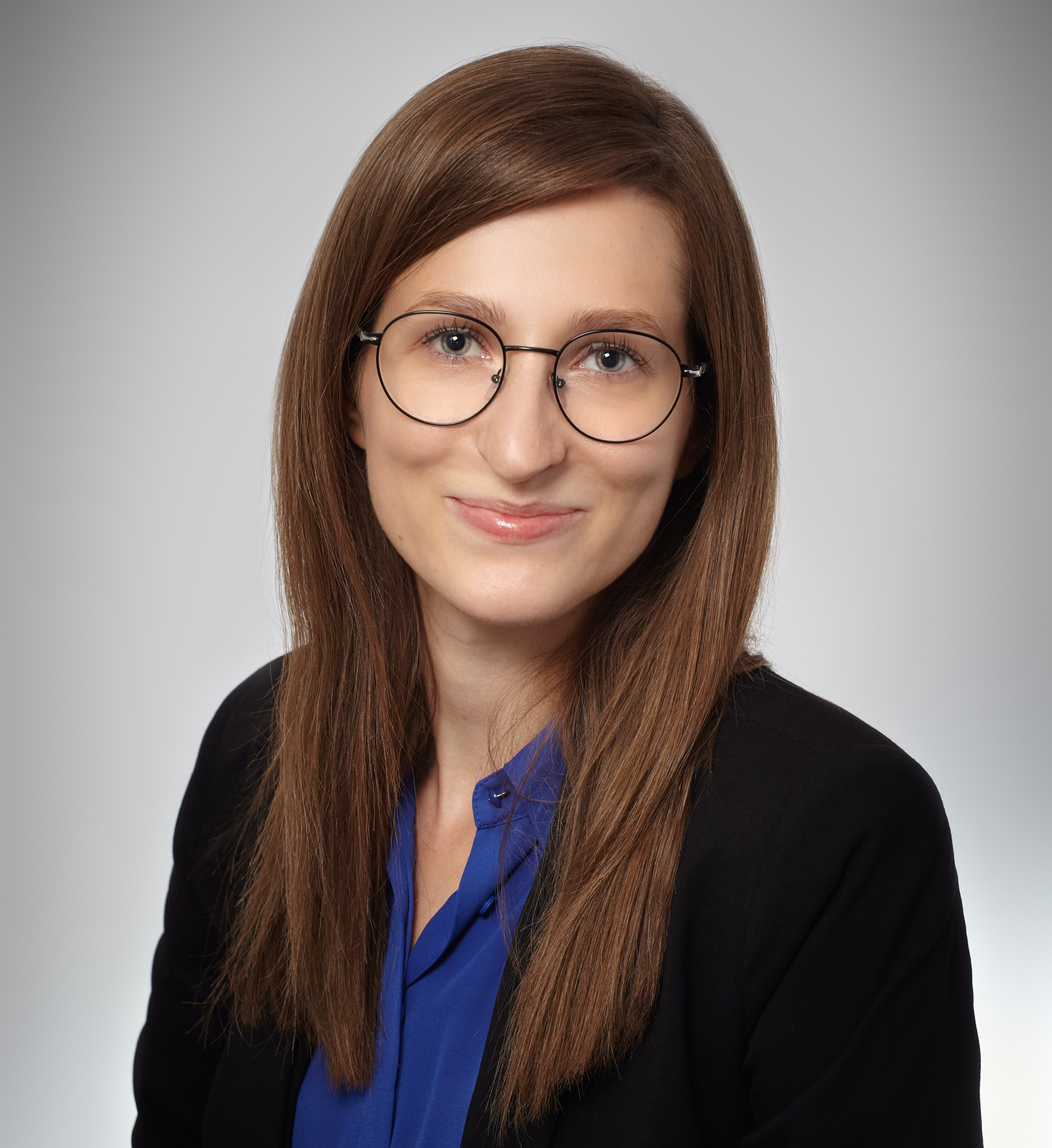
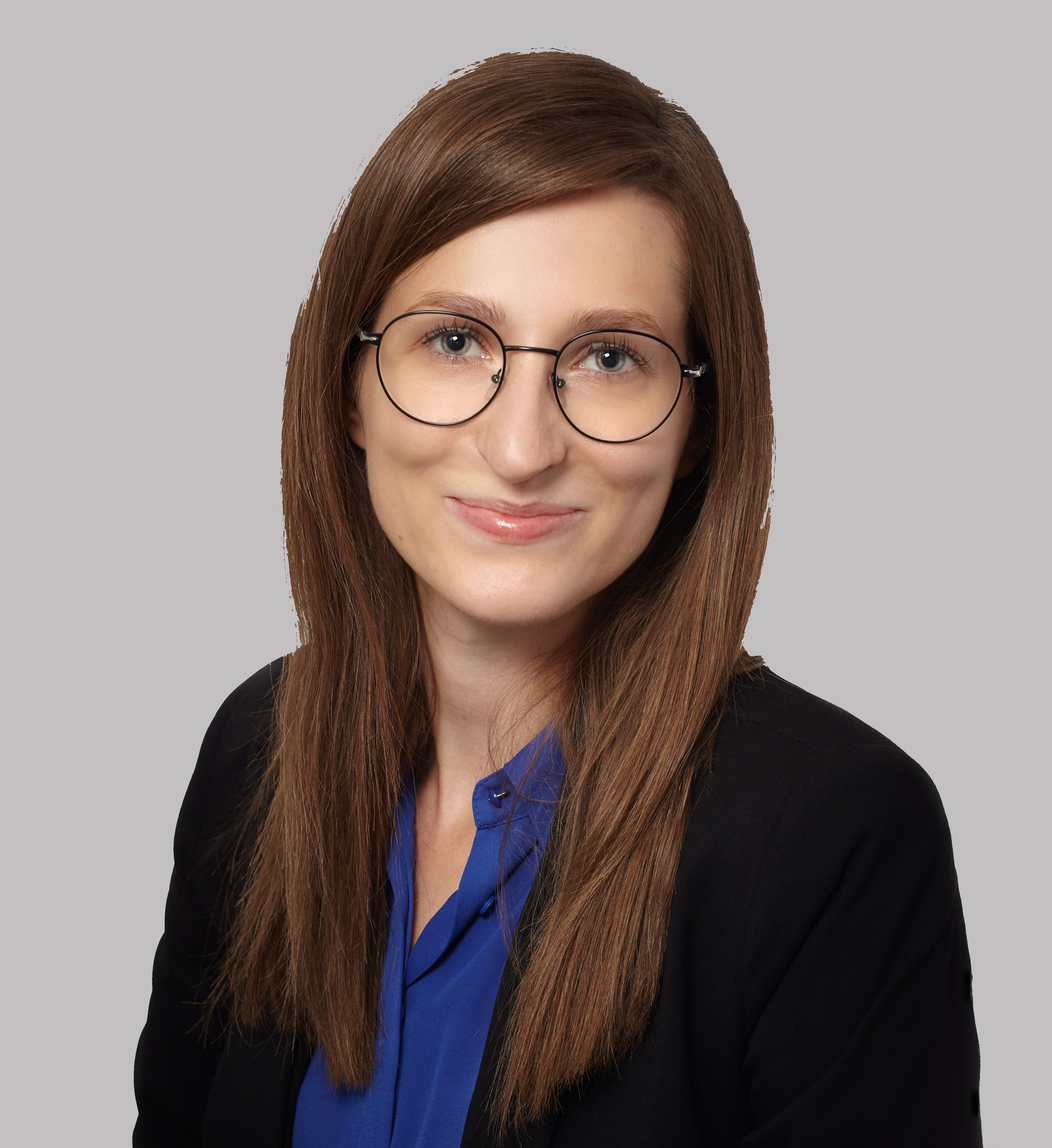
style change

diff --git a/css/main.css b/css/main.css
@@ -4,34 +4,145 @@
    padding: 0;
 }
 
+html {
+   height: 100%;
+}
+
 body {
-   background-color: #C1Bebd;
-   background-image: linear-gradient(315deg, #716c6a 0%, #C1Bebd 74%);
+   background-color: #808080;
+   background-image: linear-gradient(326deg, #808080 0%, #C1Bebd 74%);
    font-family:'Quicksand', sans-serif;
 }
 
-/* HEADER */
+/* NAVIGATION */
 
-header {
-   position: relative;
-   height: 65px;
-   background-color:#716c6a;
-   font-size: 3rem;
-   font-weight:300;
-   color: #d3d2d1;
-}
-
-header p {
+nav {
+   position: sticky;
+   top: 0;
+   height: 60px;
+   line-height: 60px;
+   background-color: rgb(194, 192, 192);
    text-align: center;
-   text-shadow: 1px 1px 3px #a7a3a0;
+   overflow: hidden;
+   z-index: 1;
 }
 
-header span {
-   font-weight: bold;
+.nav-mobile {
+   margin-right: 100%;
+}
+
+.nav-mobile button {
+   padding: 0 30px;
+   line-height: 60px;
+   font-size: 30px;
+   background: none;
+   border: none;
+}
+
+.nav-desktop {
+   display: none;
+}
+
+/* SECTIONS */
+
+/* ABOUT-ME */
+
+#about-me {
+   display: grid;
+   grid-template-columns: 50% 50%;
+   height: 50vh;
+   position: relative;
+   margin-top: -5vh;
+}
+
+.about-me-photo img {
+   grid-column: 1 / span 1;
+   height: 50vh;
+   width: 100%;
+   object-fit: contain;
+   overflow: hidden;
+}
+
+.about-me-text {
+   grid-column: 2 / span 1;
+   padding: 10px;
+   margin: auto;
+}
+
+.about-me-text h2 {
+   color: rgb(11, 127, 204);
+   text-align: justify;
+   font-size: 0.8rem;
+}
+
+.about-me-text p {
+   text-align: justify;
+   font-size: 0.7rem;
+}
+
+@media (min-width: 400px) {
+   .about-me-text h2 {
+      font-size: 0.9rem;
+   }
+
+   .about-me-text p {
+      font-size: 0.8rem;
+   }
+}
+
+@media (min-width: 450px) {
+   .about-me-text h2 {
+      font-size: 1rem;
+   }
+
+   .about-me-text p {
+      font-size: 0.9rem;
+   }
+}
+
+/* LANGUAGES */
+
+#languages {
+   height: 35vh;
+   background-image: url(../img/coding.jpg);
+   position: relative;
+   background-position: center;
+   background-size: cover;
+   background-repeat: no-repeat;
+   border-radius: 2%;
+   margin: 3vw;
+   margin-top: -5vh;
+}
+
+.languages-text {
+   position: absolute;
+   color: black;
+   padding: 2vw;
+}
+
+.languages-text ul {
+   list-style-type: none;
+   list-style: inside;
+   padding-top: 2vh;
+}
+
+.languages-text h2 {
+   font-size: 1rem;
+}
+
+.langugaes-text p {
+   font-size: 1rem;
+}
+
+.hero-bg {
+   width: 100%;
+   height: 100%;
+   background-color: rgba(194, 192, 192, 0.75);
+   border-radius: 2%;
 }
 
 /* ASIDE */
-
+/*
 #container {
    display: grid;
    grid-template-columns: 30% 70%;
@@ -89,9 +200,9 @@ img {
    margin: 5px;
    margin-top: 10px;
 }
-
+*/
 /* MAIN  */
-
+/*
 main {
    grid-column: 2 / span 1;
    position: relative;

diff --git a/index.html b/index.html
@@ -14,10 +14,59 @@
 	<script src="https://kit.fontawesome.com/a076d05399.js" crossorigin="anonymous"></script>
 </head>
 <body>	
-	<header>
-		<p>Monika <span>Dyrka</span></p>  
-	</header>
+	<nav>
+        <div class="nav-mobile">
+            <button><i class="fas fa-bars"></i></button>
+        </div>
+        <div class="nav-desktop">
+         <ul>
+             <li><a href="#">Home</a></li>
+             <li><a href="#about-me">About me</a></li>
+			 <li><a href="#languages">Programming langugaes and tools</a></li>
+			 <li><a href="#education">Education</a></li>
+			 <li><a href="#experience">Professional experience</a></li>
+         </ul>
+        </div>
+	</nav>
 	
+	<main>
+		<section id="about-me">
+			<div class="about-me-photo"><img src="img/zdjecie.jpg" alt="Monika  Dyrka"></div>
+			<div class="about-me-text">
+					<h2>Hi! I'm Monika and I'm a new junior frontend developer</h2>
+					<p>After 4 years of working in finance, I've decided to change my professional path in direction of programming, which 
+					I had contact with during my Master's studies - programming in SAS, R and VBA, working with statistical data. I am currently learning front-end development and looking for job opportunitits in this area.</p>
+			</div>
+		</section>
+		<section id="languages">
+				<div class="languages-text">
+					<h2>Programming languages and tools</h2>
+					<ul>
+						<li>HTML</li>
+						<li>CSS (with SASS basics)</li>
+						<li>Java Script - basics</li>
+						<li>GIT - basic operating skills</li>
+					</ul>
+					<br>
+					<h2>Projects</h2>
+					<p><a href="parkmediaoutlet.pl">Antique shop website</a></p>
+					<p><a href="https://github.com/hayley10/hayley10.github.io/tree/master">this website</a></p>
+				</div>
+				<div class="hero-bg"></div>
+		</section>
+		<section id="education">
+
+		</section>
+		<section id="experience">
+
+		</section>
+	</main>
+
+	<footer>
+
+
+	</footer>
+	<!-- 
 	<div id="container">
 		<aside>
 			<img src="img/zdjecie.jpg" alt="Monika  Dyrka">
@@ -129,7 +178,7 @@
 		
 		</main>	
 	</div>
-	
+	-->
 	<!-- <div class="container">
 			<div class="container-item-photo" style="
 			background: #a89c9b;

diff --git a/css/medium.css b/css/medium.css
@@ -1,1 +1,51 @@
 /* (min-width: 768px) */
+
+.nav-mobile {
+    display: none;
+}
+
+.nav-desktop {
+    display: block;
+}
+
+.nav-desktop li {
+    list-style: none;
+    display: inline-block;
+}
+
+.nav-desktop li a {
+    padding: 30px;
+    text-decoration: none;
+    font-weight: bold;
+    color: #333;
+    transition: color .3s;
+}
+
+.nav-desktop li a:hover {
+    color: rgb(0, 153, 255);
+}
+
+/* ABOUT-ME */
+
+#about-me {
+    grid-template-columns: 40% 60%;
+    height: 40vh;
+    margin-left: 10vw;
+ }
+ 
+ .about-me-photo img {
+    height: 40vh;
+ }
+
+ .about-me-text {
+     margin-right: 10vw;
+ }
+ 
+ .about-me-text h2 {
+    font-size: 1.2rem;
+ }
+ 
+ .about-me-text p {
+    padding-top: 3vh;
+    font-size: 1.2rem;
+ }

diff --git a/css/small.css b/css/small.css
@@ -1,1 +1,26 @@
 /* (min-width: 576px) */
+
+/* ABOUT-ME */
+
+#about-me {
+    grid-template-columns: 40% 60%;
+    height: 40vh;
+    margin-left: 2vw;
+ }
+ 
+ .about-me-photo img {
+    height: 40vh;
+ }
+
+ .about-me-text {
+     margin-right: 5vw;
+ }
+ 
+ .about-me-text h2 {
+    font-size: 1rem;
+ }
+ 
+ .about-me-text p {
+    padding-top: 3vh;
+    font-size: 1rem;
+ }

diff --git a/css/large.css b/css/large.css
@@ -1,1 +1,11 @@
 /* (min-width: 992px) */
+
+/* ABOUT-ME */
+ 
+ .about-me-text h2 {
+    font-size: 1.5rem;
+ }
+ 
+ .about-me-text p {
+    font-size: 1.5rem;
+ }
